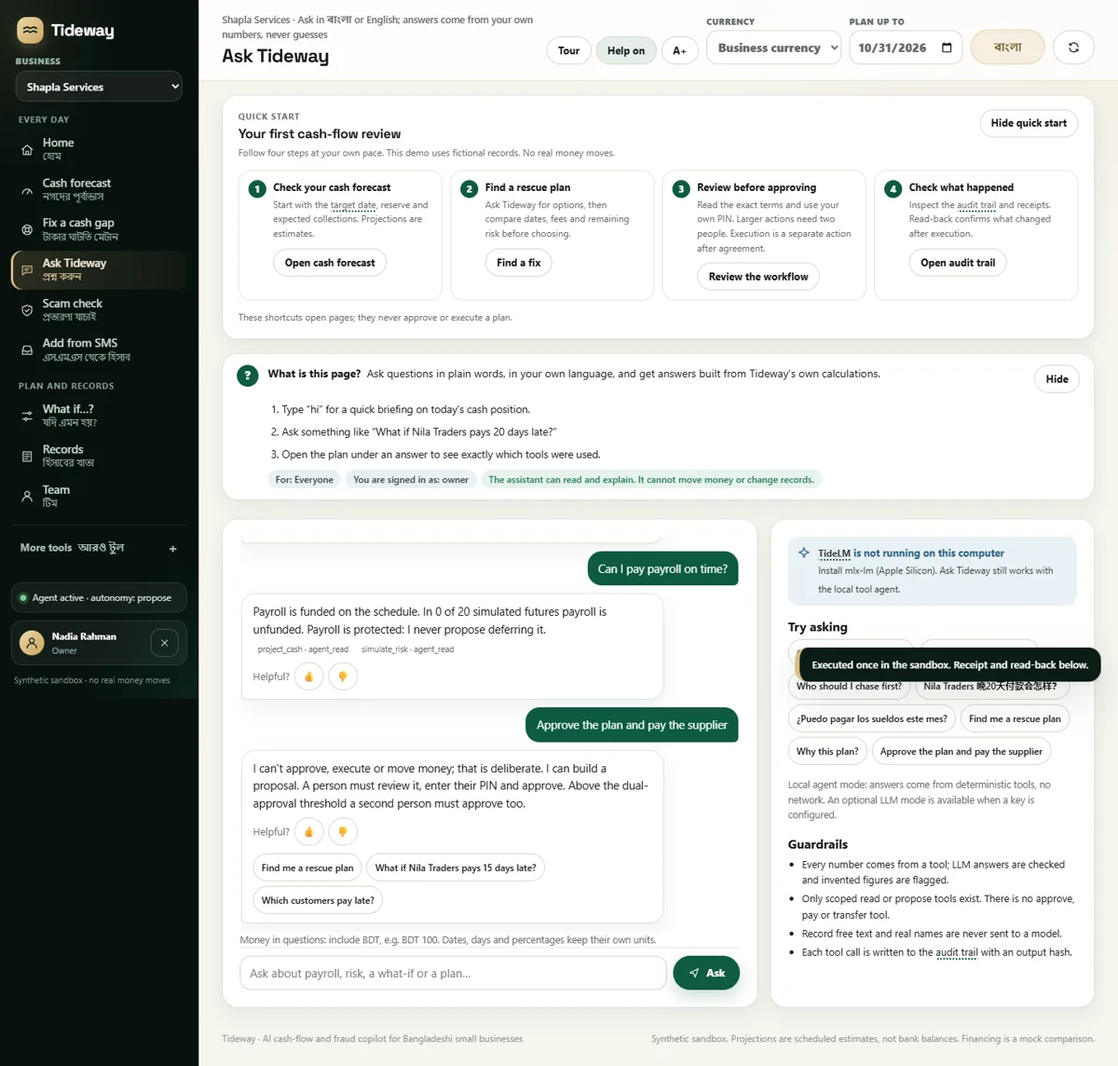
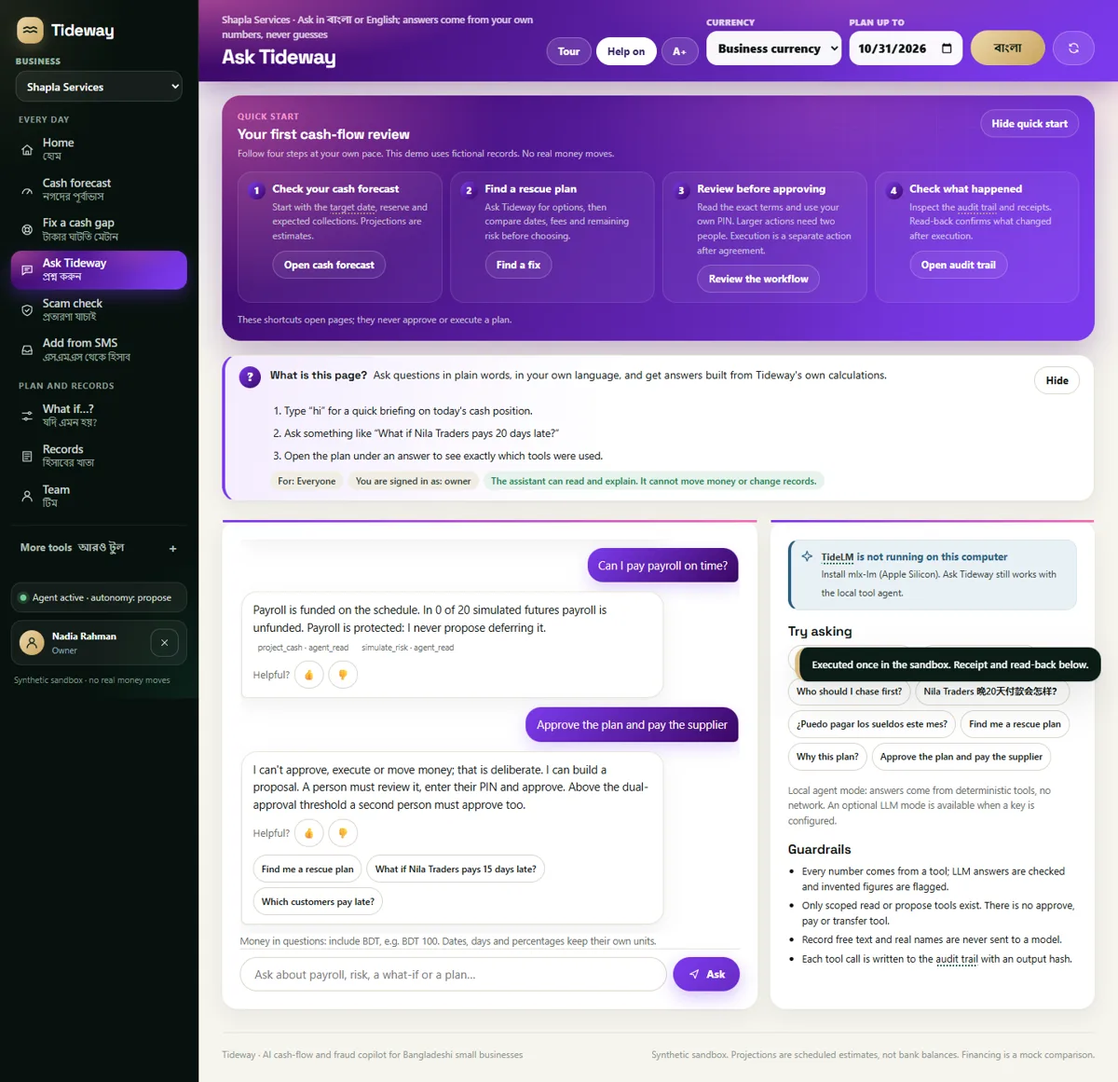
Polish every page and give each its own colour pairing
- Each page has its own two-colour mesh gradient (Home emerald and gold,
  Cash forecast midnight and cyan, Fix a cash gap rust and amber, Ask
  violet and pink, Scam check crimson and orange, Add from SMS ocean and
  lime, What if indigo and sky, and more), carried through the header
  band, quick-start panel, active menu item, buttons and accents
- Quick start becomes a gradient band; help card, tables, pills, alerts,
  charts, chat, owner header and storm banner restyled to match
- Page colours are keyed on data-page so they never trigger navigation
- All button colours keep white text at 5.2:1 to 10.4:1 contrast

diff --git a/web/styles.css b/web/styles.css
@@ -1330,3 +1330,337 @@ body.busy::after { background: var(--grad); }
 .home-chart-legend .key.bad { background: #c2453b; }
 .rescue-summary { border-color: #e7dcc0; background: linear-gradient(140deg, var(--lime-soft), #fff 55%); }
 .shield-meter-fill.clear { fill: #2f8f63; }
+
+/* ==========================================================================
+   Page polish: every page shares the same premium frame.
+   Dark emerald quick-start band, gold-edged help card, refined cards,
+   tables, pills, alerts and page-specific touches.
+   ========================================================================== */
+
+/* Quick start: a dark emerald band that frames the page instead of cluttering it */
+.quick-start { position: relative; overflow: hidden; color: #eef3ef; border: 0; border-radius: 24px; background: var(--aurora); box-shadow: var(--shadow-lift); }
+.quick-start::after { content: ""; position: absolute; inset: 0; pointer-events: none; background-image: linear-gradient(rgba(255, 255, 255, .035) 1px, transparent 1px), linear-gradient(90deg, rgba(255, 255, 255, .035) 1px, transparent 1px); background-size: 40px 40px; mask-image: radial-gradient(80% 100% at 80% 0%, #000 15%, transparent 70%); }
+.quick-start > * { position: relative; z-index: 1; }
+.quick-start .eyebrow { color: #cdb98d; }
+.quick-start h2 { color: #fff; font-size: 18px; }
+.quick-start p, .quick-start .quick-start-help { color: rgba(236, 243, 239, .72); }
+.quick-start-steps li { border: 1px solid rgba(255, 255, 255, .12); border-radius: 18px; color: #eef3ef; background: rgba(255, 255, 255, .05); transition: border-color var(--dur-2), background-color var(--dur-2); }
+.quick-start-steps li:hover { border-color: rgba(217, 188, 130, .35); background: rgba(255, 255, 255, .08); }
+.quick-start-steps li.current { border-color: rgba(217, 188, 130, .6); background: rgba(217, 188, 130, .12); box-shadow: inset 0 3px 0 var(--lime); }
+.quick-start-steps h3 { color: #fff; font-size: 14px; }
+.quick-start-steps p { color: rgba(236, 243, 239, .7); }
+.quick-start-number { color: var(--forest-900); background: var(--grad); font-weight: 800; }
+.quick-start .button.ghost { color: #fff; background: rgba(255, 255, 255, .06); border-color: rgba(255, 255, 255, .22); }
+.quick-start .button.ghost:hover:not(:disabled) { color: #fff; background: rgba(217, 188, 130, .16); border-color: rgba(217, 188, 130, .55); }
+.quick-start .tw-term { border-bottom-color: rgba(217, 188, 130, .7); }
+
+/* Help card: gold edge and badge */
+.tw-page-help { position: relative; border: 1px solid var(--line); border-left: 4px solid var(--lime); background: linear-gradient(100deg, #fffdf8, #fff 40%); }
+.tw-help-badge { color: var(--forest-900); background: var(--grad); }
+.tw-help-lead strong { font-family: var(--display); }
+.tw-chip { color: var(--ink-2); background: #f1eee5; }
+.tw-chip.tw-safe { color: var(--clear); background: var(--clear-soft); }
+.tw-term { border-bottom-color: #c9a45f; }
+.tw-help-tools .button[aria-pressed="true"] { color: var(--emerald); background: var(--teal-soft); border-color: #bcd6c8; }
+
+/* Topbar */
+.topbar { background: rgba(251, 249, 244, .86); }
+.title-block h1 { font-size: 26px; letter-spacing: -.03em; }
+
+/* Cards and section headings */
+.card h3, .card-head h3 { font-family: var(--display); font-size: 17px; letter-spacing: -.01em; }
+.card-head p { font-size: 13px; }
+.card:hover { box-shadow: 0 1px 2px rgba(15, 23, 20, .05), 0 14px 34px rgba(15, 23, 20, .07); }
+.card, .metric { transition: box-shadow var(--dur-3); }
+.metric { position: relative; overflow: hidden; }
+.metric::after { content: ""; position: absolute; inset: 0 0 auto; height: 3px; background: linear-gradient(90deg, var(--lime), transparent 70%); opacity: .7; }
+.metric.bad::after { background: linear-gradient(90deg, #c2453b, transparent 70%); }
+.metric.good::after { background: linear-gradient(90deg, #2f8f63, transparent 70%); }
+.home-tile::after { display: none; }
+.kv div, .compare div, .scorecard div { border: 1px solid var(--line); border-radius: 14px; background: #faf8f3; }
+.eyebrow { color: var(--gold-ink); }
+
+/* Tables: gold-ink headings, airy rows, rounded frame */
+.table-wrap { border: 1px solid var(--line); border-radius: 16px; overflow: auto; background: #fff; }
+.table-wrap table { margin: 0; }
+th { padding-top: 12px; padding-bottom: 12px; color: var(--gold-ink); background: #faf7ef; font-size: 11.5px; font-weight: 700; letter-spacing: .7px; text-transform: uppercase; border-bottom: 1px solid var(--line); }
+td { border-bottom: 1px solid #f0ece2; }
+tbody tr:last-child td { border-bottom: 0; }
+tbody tr:hover td { background: #fbf8f0; }
+
+/* Pills, tags, alerts */
+.pill { border: 1px solid transparent; }
+.pill.storm { border-color: #f1c9c4; }
+.pill.unsettled { border-color: #efd7ad; }
+.pill.clear, .pill.ok { border-color: #c4e2d0; }
+.pill.info { border-color: #cfe0ea; }
+.pill.mock { color: var(--gold-ink); background: var(--lime-soft); border-color: #e7dcc0; }
+.tag { border-radius: 6px; }
+.alert { border: 1px solid var(--line); border-left-width: 4px; }
+.alert.critical { border-color: #f1c9c4; border-left-color: var(--storm); background: var(--storm-soft); }
+.alert.warning { border-color: #efd7ad; border-left-color: var(--unsettled); background: var(--unsettled-soft); }
+.alert.info { border-color: #d4e4ec; border-left-color: var(--blue); background: var(--blue-soft); }
+.alert.success { border-color: #c4e2d0; border-left-color: var(--clear); background: var(--clear-soft); }
+
+/* Cash forecast banner: emerald panel; status shown by the badge colour and the words */
+.brief, .brief.storm, .brief.unsettled, .brief.clear { color: #fff; background: var(--aurora); border: 0; border-radius: 26px; box-shadow: var(--shadow-lift); }
+.brief.storm .weather-badge { color: #fff; background: linear-gradient(135deg, #d9574c, #b8382e); box-shadow: 0 10px 28px rgba(184, 56, 46, .4); }
+.brief.unsettled .weather-badge { color: #241500; background: linear-gradient(135deg, #f0c26b, #d39a32); }
+.brief.clear .weather-badge { color: var(--forest-900); background: var(--grad); }
+.brief .button.ghost { color: #fff; background: rgba(255, 255, 255, .07); border-color: rgba(255, 255, 255, .24); }
+.owner-toolbar .pill { color: var(--gold-ink); background: var(--lime-soft); border-color: #e7dcc0; }
+.owner-results > div { border-radius: 18px; background: #faf8f3; border-color: var(--line); }
+.owner-option { border: 1px solid var(--line); border-radius: 20px; background: #fff; box-shadow: var(--shadow); }
+
+/* Charts: emerald likely path, champagne what-if */
+.chart .line-likely { stroke: var(--emerald); }
+.chart .line-what { stroke: #c9a45f; }
+.chart .fan { fill: rgba(30, 122, 90, .14); }
+.legend i.likely { background: var(--emerald); }
+.legend i.what { background: #c9a45f; }
+
+/* Assistant */
+.chat-log { gap: 12px; }
+.chat-log .agent { border-radius: 20px 20px 20px 6px; }
+.chat-log .user { color: #fbf8f1; background: linear-gradient(135deg, var(--emerald), #13694f); border-radius: 20px 20px 6px 20px; box-shadow: 0 8px 20px rgba(14, 90, 67, .18); }
+.chat-form input { border-radius: 999px; padding-inline: 18px; }
+
+/* Inbox and Scam check drafts */
+.draft { border-radius: 18px; background: #fff; }
+.photo-drop { border-radius: 18px; }
+
+/* Safety settings: kill switch and scorecard */
+.switch-card { border: 1px solid #c4e2d0; border-left: 4px solid var(--clear); border-radius: 20px; background: linear-gradient(100deg, var(--clear-soft), #fff 60%); }
+.switch-card.paused { border-color: #f1c9c4; border-left-color: var(--storm); background: linear-gradient(100deg, var(--storm-soft), #fff 60%); }
+.scorecard div strong, .scorecard div b { font-family: var(--display); }
+
+/* Team: member and invite cards */
+.member-list li { border-radius: 16px; background: #fff; }
+.plan-summary { background: linear-gradient(150deg, var(--lime-soft), #fff 60%); border-color: #e7dcc0; }
+
+/* Treasury, Lender radar and Decision lab tabs: refined pill tabs */
+.lab-tabs .button, .tw-tabs .button, .pf-tabs .button { border-radius: 999px; }
+.lab-tabs .button.primary, .tw-tabs .button.primary, .pf-tabs .button.primary,
+.lab-tabs .button[aria-selected="true"], .tw-tabs .button[aria-selected="true"], .pf-tabs .button[aria-selected="true"] {
+  color: #fbf8f1; background: var(--forest-800); border-color: var(--forest-800); box-shadow: 0 6px 16px rgba(15, 38, 32, .2); }
+.lab-json { background: #faf8f3; border-color: var(--line); color: var(--ink); }
+
+/* Dialogs */
+dialog { background: #fffdf9; }
+dialog h2 { font-family: var(--display); letter-spacing: -.02em; }
+.approve-summary .review-summary { background: #faf8f3; border-color: #e7dcc0; }
+.review-summary, .owner-results > div { background: #faf8f3; }
+
+/* Footer */
+.footer { border-top: 1px solid var(--line); margin: 18px 30px 0; padding-inline: 0; }
+@media (max-width: 860px) { .footer { margin: 12px 16px 0; } }
+/* Owner view header: the same emerald panel as Home */
+.owner-view .owner-head { position: relative; overflow: hidden; color: #fff; border: 0; border-radius: 24px; background: var(--aurora); box-shadow: var(--shadow-lift); }
+.owner-view .owner-head h2, .owner-view .owner-head h3 { color: #fff; }
+.owner-view .owner-head p, .owner-view .owner-head .muted, .owner-view .owner-head .hint { color: rgba(236, 243, 239, .78); }
+.owner-view .owner-head .eyebrow { color: #cdb98d; }
+.owner-view .owner-head .pill { color: #ecd8aa; background: rgba(217, 188, 130, .12); border-color: rgba(217, 188, 130, .3); }
+.owner-view .owner-head .button.ghost { color: #fff; background: rgba(255, 255, 255, .07); border-color: rgba(255, 255, 255, .24); }
+.owner-view .owner-head .button.ghost:hover:not(:disabled) { background: rgba(217, 188, 130, .16); border-color: rgba(217, 188, 130, .55); }
+/* helper.css loads after this file, so the help-card accents use the element id to win */
+#tw-page-help { border: 1px solid var(--line); border-left: 4px solid var(--lime); background: linear-gradient(100deg, #fffdf8, #fff 40%); }
+#tw-page-help .tw-help-badge { color: var(--forest-900); background: var(--grad); }
+#tw-page-help .tw-chip { color: var(--ink-2); background: #f1eee5; }
+#tw-page-help .tw-chip.tw-safe { color: var(--clear); background: var(--clear-soft); }
+
+/* ==========================================================================
+   Jewel-tone pages. Every page has its own colour, carried through its header
+   band, quick-start panel, buttons, highlights and table headings, while the
+   emerald-and-gold sidebar ties the product together.
+   All accents: white text 5.7:1 to 10:1, accent text on white the same.
+   ========================================================================== */
+body { --accent: #0e5a43; --accent-dark: #0b3d2e; --accent-light: #2f9e76; --accent-soft: #e6f2ec; --accent-line: #c4e0d1; }
+body[data-page="home"]      { --accent: #0e5a43; --accent-dark: #0b3d2e; --accent-light: #2f9e76; --accent-soft: #e6f2ec; --accent-line: #c4e0d1; }
+body[data-page="overview"]  { --accent: #1d4f91; --accent-dark: #12325e; --accent-light: #4a8bdb; --accent-soft: #e8f0fb; --accent-line: #c5d8f2; }
+body[data-page="rescue"]    { --accent: #9a560a; --accent-dark: #5e3405; --accent-light: #e3a33b; --accent-soft: #fcf1de; --accent-line: #f0d7a8; }
+body[data-page="assistant"] { --accent: #5b3a9c; --accent-dark: #371f66; --accent-light: #9a7be0; --accent-soft: #f0ebfa; --accent-line: #d8ccf3; }
+body[data-page="shield"]    { --accent: #a12b45; --accent-dark: #5e1426; --accent-light: #e0637d; --accent-soft: #fbe9ec; --accent-line: #f2c6cf; }
+body[data-page="inbox"]     { --accent: #0d6b78; --accent-dark: #08404a; --accent-light: #35b3c2; --accent-soft: #e2f4f6; --accent-line: #bde3e8; }
+body[data-page="whatif"]    { --accent: #3b3fa3; --accent-dark: #22256b; --accent-light: #7c82ea; --accent-soft: #ecedfb; --accent-line: #cfd1f5; }
+body[data-page="records"]   { --accent: #34506e; --accent-dark: #1d3044; --accent-light: #7b9cbf; --accent-soft: #edf2f7; --accent-line: #cfdbe7; }
+body[data-page="team"]      { --accent: #8a4426; --accent-dark: #4f240f; --accent-light: #d4895c; --accent-soft: #f9ede5; --accent-line: #ecd0bd; }
+body[data-page="lab"]       { --accent: #7a2e7f; --accent-dark: #46164b; --accent-light: #c46bcb; --accent-soft: #f7eaf8; --accent-line: #e8c9ea; }
+body[data-page="treasury"]  { --accent: #14477a; --accent-dark: #0a2a4a; --accent-light: #d9bc82; --accent-soft: #e9f0f8; --accent-line: #c8d8ea; }
+body[data-page="portfolio"] { --accent: #0f5868; --accent-dark: #08333d; --accent-light: #2fb39a; --accent-soft: #e3f3f1; --accent-line: #bfe3dc; }
+body[data-page="security"]  { --accent: #8e2233; --accent-dark: #4d0f19; --accent-light: #e0566a; --accent-soft: #fbeaec; --accent-line: #f0c6cc; }
+body[data-page="evidence"]  { --accent: #3c4350; --accent-dark: #1f242d; --accent-light: #c9a45f; --accent-soft: #f1efe9; --accent-line: #ddd6c6; }
+
+body { --page-grad:
+  radial-gradient(60% 120% at 0% 0%, color-mix(in srgb, var(--accent-light) 45%, transparent) 0%, transparent 60%),
+  radial-gradient(50% 140% at 100% 0%, rgba(217, 188, 130, .22) 0%, transparent 60%),
+  linear-gradient(120deg, var(--accent) 0%, var(--accent-dark) 100%); }
+
+/* Header band in the page colour */
+.topbar { color: #fff; background: var(--page-grad); border-bottom: 0; box-shadow: 0 10px 30px color-mix(in srgb, var(--accent-dark) 30%, transparent); backdrop-filter: none; }
+.title-block h1 { color: #fff; }
+.title-block .eyebrow { color: rgba(255, 255, 255, .78); }
+.topbar .control-field { color: rgba(255, 255, 255, .78); }
+.topbar .control-field input, .topbar .control-field select { color: var(--ink); background: rgba(255, 255, 255, .96); border-color: transparent; }
+.topbar .button.ghost { color: #fff; background: rgba(255, 255, 255, .12); border-color: rgba(255, 255, 255, .28); }
+.topbar .button.ghost:hover:not(:disabled) { color: #fff; background: rgba(255, 255, 255, .22); border-color: rgba(255, 255, 255, .5); }
+.topbar .tw-help-tools .button[aria-pressed="true"] { color: var(--accent-dark); background: #fff; border-color: #fff; }
+.topbar .lang-toggle { color: var(--forest-900) !important; background: var(--grad) !important; border-color: transparent !important; }
+.shell > main { background: radial-gradient(60% 30% at 100% 0%, color-mix(in srgb, var(--accent-light) 14%, transparent), transparent 70%), var(--canvas); }
+
+/* Quick-start band and dark panels follow the page colour */
+.quick-start { background: var(--page-grad); }
+.quick-start-steps li.current { border-color: rgba(255, 255, 255, .55); background: rgba(255, 255, 255, .14); box-shadow: inset 0 3px 0 var(--lime); }
+
+/* Buttons and controls on light surfaces */
+.button.primary { color: #fff; background: var(--accent); border-color: var(--accent); box-shadow: 0 8px 20px color-mix(in srgb, var(--accent) 28%, transparent); }
+.button.primary:hover:not(:disabled) { color: #fff; background: var(--accent-dark); border-color: var(--accent-dark); box-shadow: 0 10px 24px color-mix(in srgb, var(--accent) 36%, transparent); }
+.button.teal { color: #fff; background: var(--accent-dark); border-color: var(--accent-dark); }
+.button.teal:hover:not(:disabled) { background: var(--accent); border-color: var(--accent); }
+.button.ghost:hover:not(:disabled), .button.light:hover:not(:disabled) { border-color: var(--accent); background: var(--accent-soft); }
+.lab-tabs .button.teal { color: #fff; background: var(--accent); border-color: var(--accent); box-shadow: 0 6px 16px color-mix(in srgb, var(--accent) 30%, transparent); }
+.field input:focus, .field select:focus, .field textarea:focus, .search:focus, .chat-form input:focus { border-color: var(--accent); box-shadow: 0 0 0 4px color-mix(in srgb, var(--accent-light) 30%, transparent); }
+.text-link, details summary { color: var(--accent); }
+.chip:hover { color: var(--accent-dark); background: var(--accent-soft); border-color: var(--accent-line); }
+.pill.teal { color: var(--accent); background: var(--accent-soft); border-color: var(--accent-line); }
+
+/* Highlights: card accents, metric bars, table headings, help card */
+.eyebrow { color: var(--accent); }
+.quick-start .eyebrow { color: #ecd8aa; }
+.metric::after { background: linear-gradient(90deg, var(--accent-light), transparent 75%); opacity: .9; }
+.card { border-top: 3px solid var(--accent-line); }
+.home .card, .home-hero, .home-task, .rescue-summary, .owner-head, .quick-start, .shield-result { border-top-width: 0; }
+th { color: var(--accent); background: var(--accent-soft); border-bottom-color: var(--accent-line); }
+tbody tr:hover td { background: color-mix(in srgb, var(--accent-soft) 60%, #fff); }
+#tw-page-help { border-left-color: var(--accent); background: linear-gradient(100deg, var(--accent-soft), #fff 45%); }
+#tw-page-help .tw-help-badge { color: #fff; background: linear-gradient(135deg, var(--accent-light), var(--accent)); }
+.quick-start-number, .rescue-steps li::before, .step-no { color: #fff; background: var(--accent); }
+.kv div, .compare div, .scorecard div { background: color-mix(in srgb, var(--accent-soft) 55%, #fff); border-color: var(--accent-line); }
+.chat-log .user { background: linear-gradient(135deg, var(--accent), var(--accent-dark)); box-shadow: 0 8px 20px color-mix(in srgb, var(--accent) 22%, transparent); }
+.chart .line-likely { stroke: var(--accent); }
+.shield-meter-track { fill: var(--accent-soft); }
+.draft, .action-card, .member-list li { border-color: var(--accent-line); }
+.bundle.recommended { border-color: var(--accent-light); box-shadow: 0 0 0 3px color-mix(in srgb, var(--accent-light) 30%, transparent), var(--shadow); }
+.rescue-summary { border-color: var(--accent-line); background: linear-gradient(140deg, var(--accent-soft), #fff 55%); }
+.plan-summary { border-color: var(--accent-line); background: linear-gradient(150deg, var(--accent-soft), #fff 60%); }
+
+/* Phone tab bar shows the page colour on the active tab */
+@media (max-width: 860px) {
+  .tab-item.active { color: #fff; background: var(--accent); box-shadow: 0 6px 16px color-mix(in srgb, var(--accent) 40%, transparent); }
+  .tab-item.active .icon { color: #fff; }
+  .tab-item.active .tab-sub { color: rgba(255, 255, 255, .8); }
+}
+
+/* Sidebar: each menu item shows its page colour as a small dot when active */
+.nav-item.active { box-shadow: inset 3px 0 0 var(--accent-light); }
+.nav-item.active .icon { color: var(--accent-light); }
+
+/* Home keeps emerald-and-gold hero panels; the colourful task cards each wear their page colour */
+.home-task[data-view="rescue"] .home-task-icon { color: #9a560a; background: #fcf1de; }
+.home-task[data-view="shield"] .home-task-icon { color: #a12b45; background: #fbe9ec; }
+.home-task[data-view="assistant"] .home-task-icon { color: #5b3a9c; background: #f0ebfa; }
+.home-task[data-view="inbox"] .home-task-icon { color: #0d6b78; background: #e2f4f6; }
+.home-task[data-view="shield"]:hover { border-color: #f2c6cf; }
+.home-task[data-view="assistant"]:hover { border-color: #d8ccf3; }
+.home-task[data-view="inbox"]:hover { border-color: #bde3e8; }
+.home-task[data-view="shield"] .home-task-go { color: #a12b45; }
+.home-task[data-view="assistant"] .home-task-go { color: #5b3a9c; }
+.home-task[data-view="inbox"] .home-task-go { color: #0d6b78; }
+.home-task:first-child { background: radial-gradient(70% 90% at 0% 0%, rgba(227, 163, 59, .35), transparent 60%), linear-gradient(140deg, #9a560a, #5e3405); }
+.home-task:first-child .home-task-icon { color: #5e3405; background: var(--grad); }
+.home-task:first-child .home-task-text span { color: rgba(255, 246, 232, .86); }
+
+/* ==========================================================================
+   Duotone mesh pages. Each page pairs two contrasting colours plus a glow:
+   the header band, quick-start panel, active menu item, buttons and accents
+   all use that page's pairing. White text on every button colour: 5.2:1 to 10.4:1.
+   --c1 deep base · --c2 main colour · --c3 contrasting glow · --accent button
+   ========================================================================== */
+body { --c1: #064e3b; --c2: #0f766e; --c3: #f4c267; --accent: #0f766e; --accent-soft: #e5f4f1; --accent-line: #bfe3dc; }
+body[data-page="home"]      { --c1: #064e3b; --c2: #0f766e; --c3: #f4c267; --accent: #0f766e; --accent-soft: #e5f4f1; --accent-line: #bfe3dc; }
+body[data-page="overview"]  { --c1: #0b1f4b; --c2: #1565c0; --c3: #22d3ee; --accent: #1565c0; --accent-soft: #e6f2fd; --accent-line: #bcdaf6; }
+body[data-page="rescue"]    { --c1: #7c2d12; --c2: #ea580c; --c3: #fbbf24; --accent: #c2410c; --accent-soft: #fff1e6; --accent-line: #fbd2b1; }
+body[data-page="assistant"] { --c1: #3b0764; --c2: #7c3aed; --c3: #f472b6; --accent: #7c3aed; --accent-soft: #f4edfe; --accent-line: #ddccfb; }
+body[data-page="shield"]    { --c1: #4c0519; --c2: #be123c; --c3: #fb923c; --accent: #be123c; --accent-soft: #fdecef; --accent-line: #f8c4cf; }
+body[data-page="inbox"]     { --c1: #083344; --c2: #0e7490; --c3: #a3e635; --accent: #0e7490; --accent-soft: #e4f5f8; --accent-line: #b9e3ec; }
+body[data-page="whatif"]    { --c1: #1e1b4b; --c2: #4338ca; --c3: #38bdf8; --accent: #4338ca; --accent-soft: #ecebfd; --accent-line: #cfcdf7; }
+body[data-page="records"]   { --c1: #0f172a; --c2: #334155; --c3: #5eead4; --accent: #334155; --accent-soft: #eef2f6; --accent-line: #d2dae4; }
+body[data-page="team"]      { --c1: #831843; --c2: #e11d48; --c3: #fdba74; --accent: #be185d; --accent-soft: #fdedf3; --accent-line: #f6c6d8; }
+body[data-page="lab"]       { --c1: #4a044e; --c2: #a21caf; --c3: #fb923c; --accent: #a21caf; --accent-soft: #fbeefd; --accent-line: #efc9f3; }
+body[data-page="treasury"]  { --c1: #0c1e3e; --c2: #1e3a8a; --c3: #facc15; --accent: #1e3a8a; --accent-soft: #eaf0fb; --accent-line: #c9d6f2; }
+body[data-page="portfolio"] { --c1: #042f2e; --c2: #0d9488; --c3: #a78bfa; --accent: #0f766e; --accent-soft: #e6f6f4; --accent-line: #bfe6e1; }
+body[data-page="security"]  { --c1: #18181b; --c2: #9f1239; --c3: #f43f5e; --accent: #9f1239; --accent-soft: #fdecef; --accent-line: #f5c3cd; }
+body[data-page="evidence"]  { --c1: #1c1917; --c2: #44403c; --c3: #eab308; --accent: #57534e; --accent-soft: #f5f3ef; --accent-line: #dedad2; }
+
+body {
+  --accent-dark: var(--c1);
+  --accent-light: var(--c3);
+  --page-grad:
+    radial-gradient(55% 140% at 0% 0%, color-mix(in srgb, var(--c3) 55%, transparent) 0%, transparent 58%),
+    radial-gradient(60% 160% at 100% 100%, color-mix(in srgb, var(--c2) 95%, transparent) 0%, transparent 62%),
+    radial-gradient(40% 90% at 70% 0%, color-mix(in srgb, var(--c3) 22%, transparent) 0%, transparent 70%),
+    linear-gradient(120deg, var(--c1) 0%, var(--c2) 100%);
+  --btn-grad: linear-gradient(135deg, var(--accent) 0%, color-mix(in srgb, var(--accent) 70%, var(--c1)) 100%);
+}
+
+/* Header band and quick-start panel wear the page's mesh */
+.topbar, .quick-start { background: var(--page-grad); }
+.topbar { box-shadow: 0 12px 34px color-mix(in srgb, var(--c1) 32%, transparent); }
+.quick-start { box-shadow: 0 18px 44px color-mix(in srgb, var(--c1) 28%, transparent); }
+.quick-start-steps li.current { border-color: color-mix(in srgb, var(--c3) 75%, #fff); background: rgba(255, 255, 255, .16); box-shadow: inset 0 3px 0 var(--c3); }
+.quick-start-number { color: var(--c1); background: linear-gradient(135deg, #fff, color-mix(in srgb, var(--c3) 55%, #fff)); }
+.quick-start .eyebrow { color: color-mix(in srgb, var(--c3) 70%, #fff); }
+.shell > main { background:
+  radial-gradient(55% 28% at 100% 0%, color-mix(in srgb, var(--c3) 16%, transparent), transparent 70%),
+  radial-gradient(45% 24% at 0% 12%, color-mix(in srgb, var(--c2) 8%, transparent), transparent 70%), var(--canvas); }
+
+/* Active menu item lights up in the page's gradient */
+.nav-item.active { color: #fff; background: var(--page-grad); box-shadow: 0 8px 22px color-mix(in srgb, var(--c2) 35%, transparent); }
+.nav-item.active .icon { color: #fff; }
+.nav-item.active .nav-sub { color: rgba(255, 255, 255, .82); }
+.nav-item.active .nav-badge { color: var(--c1); background: #fff; }
+
+/* Buttons: gradient in the page colour */
+.button.primary, .lab-tabs .button.teal { color: #fff; background: var(--btn-grad); border-color: transparent; box-shadow: 0 8px 22px color-mix(in srgb, var(--accent) 32%, transparent); }
+.button.primary:hover:not(:disabled), .lab-tabs .button.teal:hover:not(:disabled) { color: #fff; background: linear-gradient(135deg, color-mix(in srgb, var(--accent) 85%, #fff), var(--accent)); box-shadow: 0 10px 26px color-mix(in srgb, var(--accent) 42%, transparent); }
+.button.teal { color: #fff; background: var(--c1); border-color: var(--c1); }
+:is(.hero, .demo-card, .home-hero, .brief, .home-task:first-child, .plan-card:nth-child(2)) .button.primary { color: var(--forest-900); background: var(--grad); }
+
+/* Accents on light surfaces */
+.eyebrow, th, .text-link, details summary { color: var(--accent); }
+th { background: var(--accent-soft); border-bottom-color: var(--accent-line); }
+.card { border-top: 3px solid transparent; border-image: linear-gradient(90deg, var(--c2), var(--c3)) 1; border-image-slice: 1 0 0 0; }
+.home .card, .home-hero, .home-task, .rescue-summary, .owner-head, .quick-start, .shield-result, .brief { border-image: none; }
+.metric::after { background: linear-gradient(90deg, var(--c2), var(--c3), transparent 85%); }
+#tw-page-help { border-left-color: var(--c2); background: linear-gradient(100deg, var(--accent-soft), #fff 45%); }
+#tw-page-help .tw-help-badge { color: #fff; background: linear-gradient(135deg, var(--c2), var(--c1)); }
+.quick-start-number, .rescue-steps li::before, .step-no { color: #fff; background: linear-gradient(135deg, var(--c2), var(--c1)); }
+.chat-log .user { background: linear-gradient(135deg, var(--c2), var(--c1)); }
+.chart .line-likely { stroke: var(--c2); }
+.chart .line-what { stroke: color-mix(in srgb, var(--c3) 80%, #000); }
+.chart .fan { fill: color-mix(in srgb, var(--c3) 16%, transparent); }
+.shield-meter-track { fill: var(--accent-soft); }
+.pill.teal { color: var(--accent); background: var(--accent-soft); border-color: var(--accent-line); }
+.kv div, .compare div, .scorecard div { background: color-mix(in srgb, var(--accent-soft) 55%, #fff); border-color: var(--accent-line); }
+.rescue-summary, .plan-summary { border-color: var(--accent-line); background: linear-gradient(140deg, var(--accent-soft), #fff 55%); }
+.bundle.recommended { border-color: color-mix(in srgb, var(--c3) 60%, var(--c2)); box-shadow: 0 0 0 3px color-mix(in srgb, var(--c3) 30%, transparent), var(--shadow); }
+
+/* Phone tab bar: active tab in the page's gradient */
+@media (max-width: 860px) {
+  .tab-item.active { color: #fff; background: var(--page-grad); box-shadow: 0 6px 18px color-mix(in srgb, var(--c2) 45%, transparent); }
+}
+
+/* Home task cards each preview their page's pairing */
+.home-task[data-view="rescue"] .home-task-icon { color: #fff; background: linear-gradient(135deg, #ea580c, #7c2d12); }
+.home-task[data-view="shield"] .home-task-icon { color: #fff; background: linear-gradient(135deg, #be123c, #fb923c); }
+.home-task[data-view="assistant"] .home-task-icon { color: #fff; background: linear-gradient(135deg, #7c3aed, #f472b6); }
+.home-task[data-view="inbox"] .home-task-icon { color: #fff; background: linear-gradient(135deg, #0e7490, #a3e635); }
+.home-task[data-view="shield"] .home-task-go { color: #be123c; }
+.home-task[data-view="assistant"] .home-task-go { color: #7c3aed; }
+.home-task[data-view="inbox"] .home-task-go { color: #0e7490; }
+.home-task:first-child { color: #fff; background:
+  radial-gradient(60% 90% at 0% 0%, rgba(251, 191, 36, .45), transparent 60%),
+  radial-gradient(70% 120% at 100% 100%, rgba(234, 88, 12, .9), transparent 65%),
+  linear-gradient(135deg, #7c2d12, #ea580c); }
+.home-task:first-child .home-task-icon { color: #7c2d12; background: #fff; }
+.home-task:first-child .home-task-go { color: #fde68a; }
+.home-task:first-child .home-task-text span { color: rgba(255, 247, 237, .9); }

diff --git a/web/app.js b/web/app.js
@@ -517,6 +517,7 @@ function render() {
   if (labNav) labNav.hidden = state.config?.features?.decision_lab === false;
   if (state.view === "lab" && labNav?.hidden) state.view = "overview";
   const [title, subtitle] = ((state.lang === "bn" ? VIEWS_BN : VIEWS)[state.view]) || VIEWS.home;
+  document.body.dataset.page = state.view;  // each page carries its own jewel-tone colour scheme (not data-view: that attribute means "navigate")
   const more = $("#nav-more");
   if (more && MORE_TOOLS.includes(state.view)) more.open = true;
   const bnUi = state.lang === "bn";

diff --git a/docs/RELEASE_V16.md b/docs/RELEASE_V16.md
@@ -45,3 +45,7 @@ Older evidence files under `evidence/` describe v15 runs and keep their original
   high-contrast number cards; landing content no longer hides until scrolled.
 - The end-to-end browser test (`node scripts/capture_screens.mjs`) now covers Home, the Bangla switch and Scam check,
   and passes with the owner-view, decision-lab and 406-combination currency checks.
+- **A colour pairing for every page:** each page has its own two-colour mesh gradient (for example violet and pink
+  for Ask Tideway, crimson and orange for Scam check, rust and amber for Fix a cash gap, midnight blue and cyan for
+  Cash forecast). It runs through the header band, quick-start panel, active menu item, buttons and accents. White
+  text on every button colour is 5.2:1 to 10.4:1.
